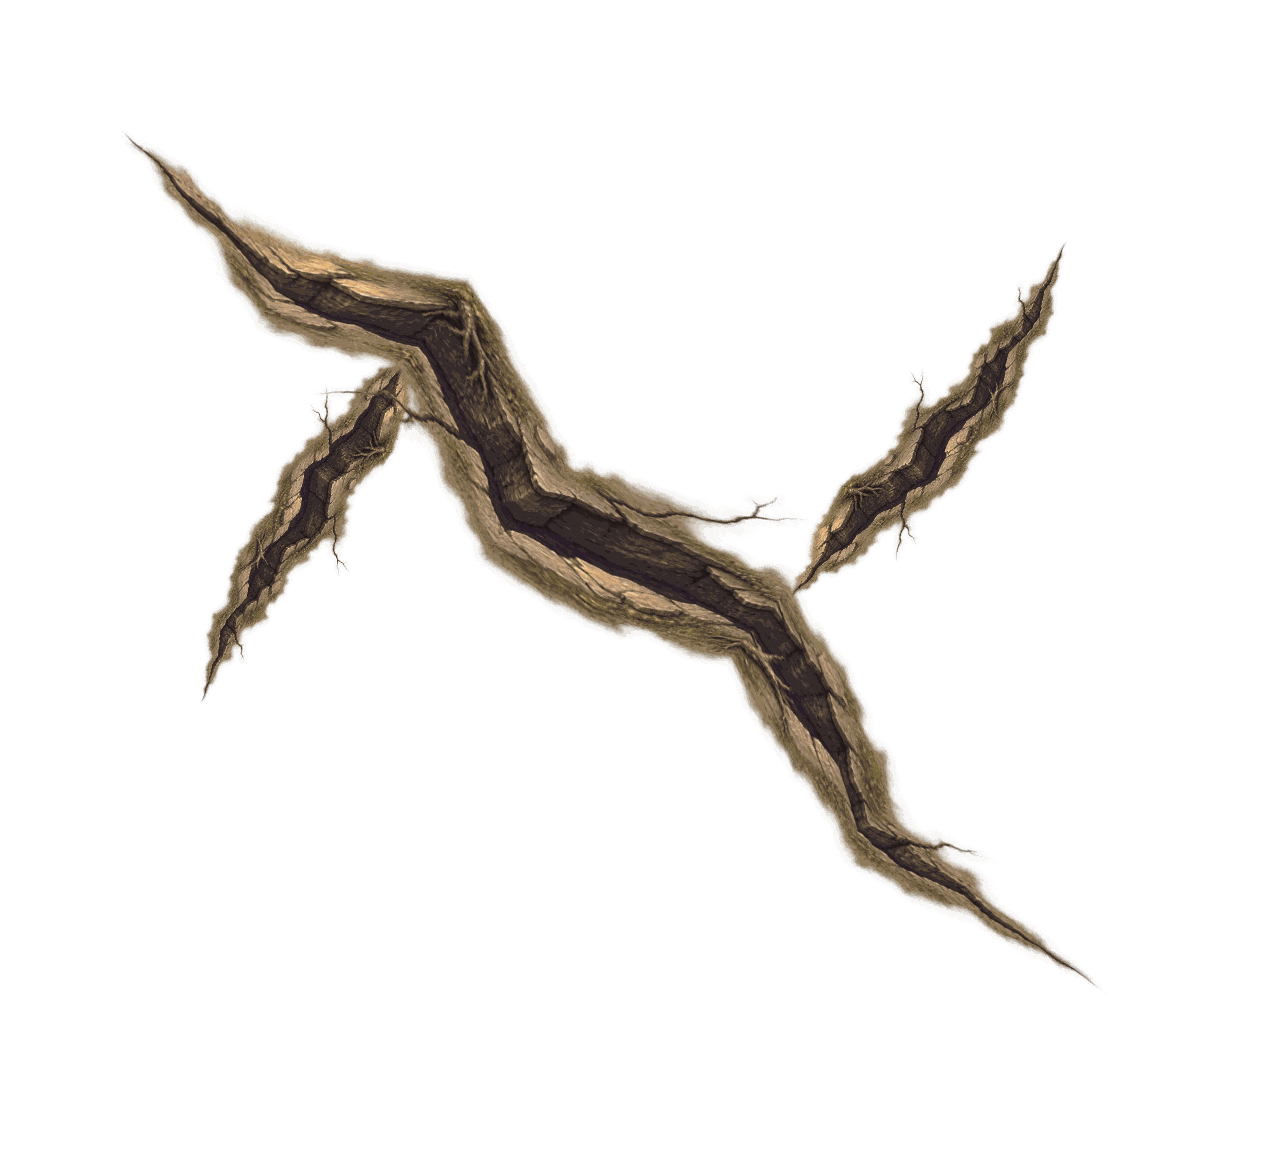
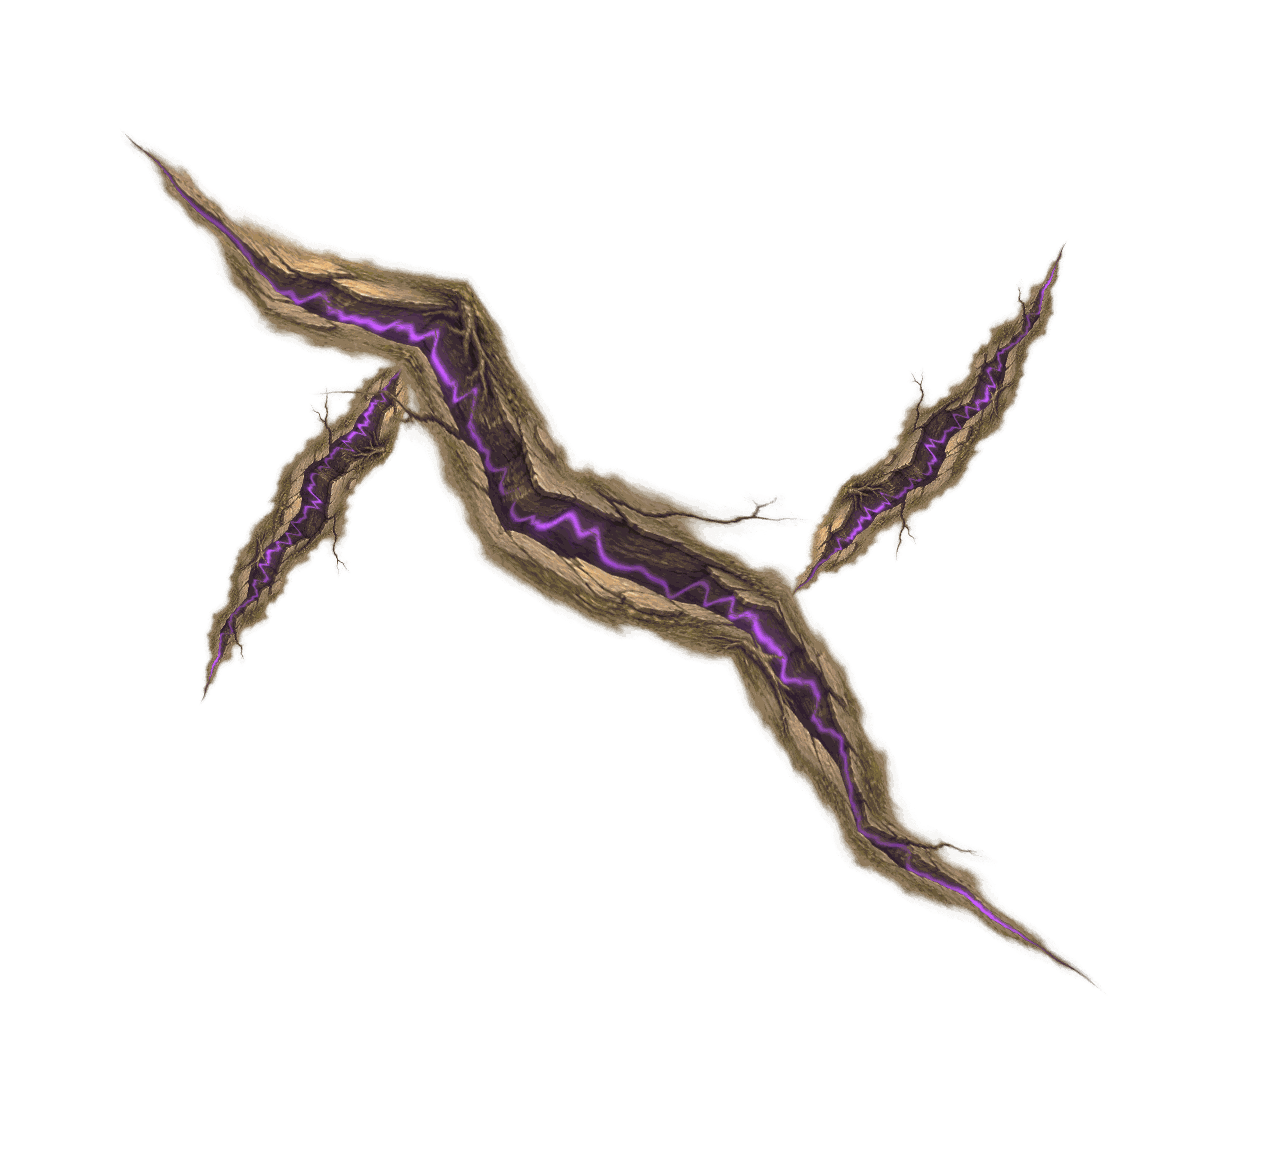
Resolve Granary crop and register Breach floor light to the painted rock after Unity review

diff --git a/tools/valoria-modular25d/journey-browser.py b/tools/valoria-modular25d/journey-browser.py
@@ -45,6 +45,22 @@ async def main():
         page.on('console',console)
         page.on('pageerror',lambda e: errors.append(str(e)))
         cdp=await ctx.new_cdp_session(page)
+        async def retina(name):
+            # Real browser raster. Record the Unity backing store independently
+            # because the player may cap rendering density on memory-limited devices.
+            metrics={'width':390,'height':844,'mobile':True,'deviceScaleFactor':3,
+                     'screenWidth':390,'screenHeight':844}
+            await cdp.send('Emulation.setDeviceMetricsOverride',metrics)
+            try:
+                await page.wait_for_timeout(800)
+                await page.screenshot(path=OUT/(name+'-retina.png'))
+                dimensions=await page.locator('canvas').evaluate(
+                    '(c)=>({width:c.width,height:c.height,dpr:devicePixelRatio})')
+                log.append({'retina_capture':name,'canvas':dimensions})
+            finally:
+                metrics['deviceScaleFactor']=1
+                await cdp.send('Emulation.setDeviceMetricsOverride',metrics)
+                await page.wait_for_timeout(550)
         async def until(test,timeout=35):
             start=time.monotonic()
             while time.monotonic()-start<timeout:
@@ -295,6 +311,7 @@ async def main():
                     await until(lambda:state.get('room')==name)
                     await page.wait_for_timeout(650)
                     await page.screenshot(path=OUT/('sistema-'+name+'.png'))
+                    if name in ('bag','march'): await retina('sistema-'+name)
                     await tap(back,False)
                     await until(lambda:not state.get('room'))
                     log.append({'room_traversed':name,'level':state['level']})

diff --git a/tools/valoria-modular25d/bake-fault-pigment.py b/tools/valoria-modular25d/bake-fault-pigment.py
@@ -3,12 +3,31 @@ import json
 from pathlib import Path
 import numpy as np
 from PIL import Image
-from scipy.ndimage import map_coordinates
+from scipy.ndimage import gaussian_filter1d, map_coordinates
 
 root = Path(__file__).resolve().parents[2] / "Unity/Assets/Eldoria/World4XCanon/Resources/World4X"
 art = root / "Illustrated"
 faults = json.loads((root / "Blender/production-region.json").read_text())["faults"]
 texture = np.asarray(Image.open(art / "Fault.png").convert("RGBA"), dtype=float) / 255
+# Track the deepest painted contour column by column before warping the
+# original cut through the mapped geology. Baked reflected light therefore
+# bends with the rock faces and remains registered at every camera scale.
+height,width=texture.shape[:2]
+row,column=np.mgrid[:height,:width]
+luma=texture[...,:3] @ np.array([.24,.62,.14])
+inside=(texture[...,3]>.76)&(row>height*.43)&(row<height*.78)
+score=np.where(inside,luma+abs(row/height-.59)*.045,2)
+floor=gaussian_filter1d(np.argmin(score,axis=0).astype(float),3.1)
+depth=row-floor[None,:]
+phase=column[0]/width
+vents=.31+.69*(.5+.5*np.sin(phase*31+1.4*np.sin(phase*13)))**2
+vein=np.exp(-.5*((depth+1.9*np.sin(column*.063))/(2.2+1.8*vents))**2)
+wall=np.exp(-abs(depth)/(10+13*vents))
+# Confine light to the recess. The bright upper lip stays under daylight.
+cavity=np.clip((.31-luma)/.18,0,1)*texture[...,3]
+ends=np.minimum(np.clip(phase/.08,0,1),np.clip((1-phase)/.08,0,1))
+emission=cavity*ends*(vein*(.43+.58*vents)+wall*.37*vents)
+texture[...,:3]=np.clip(texture[...,:3]+emission[...,None]*np.array([.53,.205,.76]),0,1)
 # x[-416,-96], z[0,288]; these boundaries correspond to RegionPaint.shader.
 density = 4
 atlas = np.zeros((288*density, 320*density, 4), dtype=float)

diff --git a/Unity/Assets/Experimentos/ValoriaModular25D/Scripts/Modular25DCameraInput.cs b/Unity/Assets/Experimentos/ValoriaModular25D/Scripts/Modular25DCameraInput.cs
@@ -31,8 +31,8 @@ namespace Eldoria.Experimentos.ValoriaModular25D
         // remain accessible by the existing pan/pinch controls.
         public static Vector3 ExpansionCenterForLevel(int level) =>
             level <= 2 ? new Vector3(-1.10f,-2.35f,-30f) :
-            level == 3 ? new Vector3(-.48f,-2.62f,-30f) :
-            level == 4 ? new Vector3(-.35f,-3.04f,-30f) :
+            level == 3 ? new Vector3(-.54f,-2.74f,-30f) :
+            level == 4 ? new Vector3(-.54f,-3.04f,-30f) :
                          new Vector3(-.25f,-4.50f,-30f);
         public static float ExpansionSizeForLevel(float aspect,int level)
         {
@@ -42,7 +42,7 @@ namespace Eldoria.Experimentos.ValoriaModular25D
             // enlarge the genuine architectural footprint in the HOME camera.
             // Portrait fits the unlocked plots; landscape prioritises the
             // centre and lets the player pan to outlying working districts.
-            float verticalCoverage=level<=2?3.82f:level==3?3.92f:level==4?4.12f:4.78f;
+            float verticalCoverage=level<=2?3.98f:level<=4?4.55f:4.78f;
             float minimum=level<=2?6.2f:level<=4?7.0f:8.5f;
             return Mathf.Max(minimum,verticalCoverage/Mathf.Max(.40f,aspect));
         }
